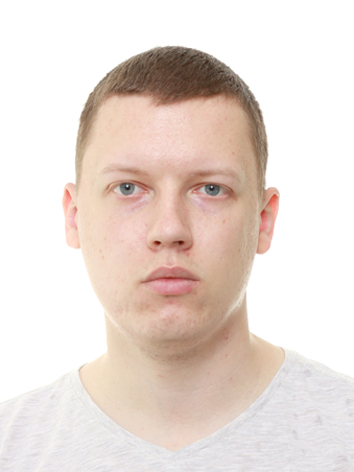
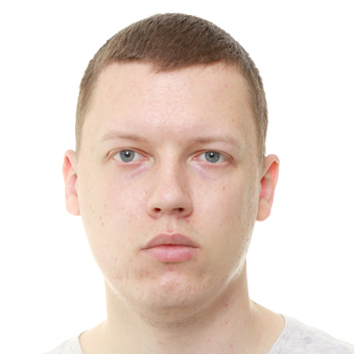
Restructured image files tree (current vs. old); resized and removed background from new images

diff --git a/index.html b/index.html
@@ -229,7 +229,7 @@
         <div class="row  team-member">
             <div class="col s4 face-box">
                 <p>
-                    <img src="img/us/aistis-r.jpg"/>
+                    <img src="img/us/aistis-r-removebg-preview.png"/>
                 </p>
             </div>
             <div class="col s8 member-intro">
@@ -247,7 +247,7 @@
         <div class="row  team-member">
             <div class="col s4 face-box">
                 <p>
-                    <img src="img/us/tadas-s.jpeg"/>
+                    <img src="img/us/tadas-s-removebg-preview.png"/>
                 </p>
             </div>
             <div class="col s8 member-intro">
@@ -267,7 +267,7 @@
         <div class="row  team-member">
             <div class="col s4 face-box">
                 <p>
-                    <img src="img/us/rokas-g.jpeg"/>
+                    <img src="img/us/rokas-g-removebg-preview.png"/>
                 </p>
             </div>
             <div class="col s8 member-intro">
@@ -282,7 +282,7 @@
         <div class="row  team-member">
             <div class="col s4 face-box">
                 <p>
-                    <img src="img/us/lukas-b.jpg"/>
+                    <img src="img/us/lukas-b-removebg-preview.png"/>
                 </p>
             </div>
             <div class="col s8 member-intro">
@@ -297,7 +297,7 @@
         <div class="row  team-member">
             <div class="col s4 face-box">
                 <p>
-                    <img src="img/us/arnas-r.jpg"/>
+                    <img src="img/us/arnas-r-removebg-preview.png"/>
                 </p>
             </div>
             <div class="col s8 member-intro">
@@ -311,7 +311,7 @@
         <div class="row  team-member">
             <div class="col s4 face-box">
                 <p>
-                    <img src="img/us/ausra-s.jpg"/>
+                    <img src="img/us/ausra-s-removebg-preview.png"/>
                 </p>
             </div>
             <div class="col s8 member-intro">
@@ -326,7 +326,7 @@
         <div class="row  team-member">
             <div class="col s4 face-box">
                 <p>
-                    <img src="img/us/gustas-m.jpg"/>
+                    <img src="img/us/gustas-m-removebg-preview.png"/>
                 </p>
             </div>
             <div class="col s8 member-intro">
@@ -337,7 +337,7 @@
         <div class="row  team-member">
             <div class="col s4 face-box">
                 <p>
-                    <img src="img/us/valentinas.jpg"/>
+                    <img src="img/us/valentinas-removebg-preview.png"/>
                 </p>
             </div>
             <div class="col s8 member-intro">
@@ -348,7 +348,7 @@
         <div class="row  team-member">
             <div class="col s4 face-box">
                 <p>
-                    <img src="img/us/jokubas-j.jpg"/>
+                    <img src="img/us/jokubas-j-removebg-preview.png"/>
                 </p>
             </div>
             <div class="col s8 member-intro">
@@ -359,7 +359,7 @@
         <div class="row  team-member">
             <div class="col s4 face-box">
                 <p>
-                    <img src="img/us/jurgis-p.png"/>
+                    <img src="img/us/jurgis-p-removebg-preview.png"/>
                 </p>
             </div>
             <div class="col s8 member-intro">
@@ -370,7 +370,7 @@
         <div class="row  team-member">
             <div class="col s4 face-box">
                 <p>
-                    <img src="img/us/henrikas-s.jpg"/>
+                    <img src="img/us/henrikas-s-removebg-preview.png"/>
                 </p>
             </div>
             <div class="col s8 member-intro">
@@ -381,11 +381,11 @@
         <div class="row  team-member">
             <div class="col s4 face-box">
                 <p>
-                    <img src="img/us/gustas-g.jpg"/>
+                    <img src="img/us/gustas-g-removebg-preview.png"/>
                 </p>
             </div>
             <div class="col s8 member-intro">
-                <h3> Gustas Gedminas, tyrėjas </h3>
+                <h3> Gustas Gediminas, tyrėjas </h3>
                 <p> Gustas yra jaunesnysis programinės įrangos inžinierius, šiuo metu studijuojantis informatiką Vilniaus universitete. Jis yra įvairių fizikos ir matematikos olimpiadų laimėtojas bei yra Lietuvos nacionalinio matematikos egzamino šimtukininkas. Gustas dega nuolatiniu noru tobulėti bei domisi pačiomis įvairiausiomis temomis: nuo fizikos modeliavimo ir neuroninių tinklų iki kompiuterinės grafikos. </p>
             </div>
         </div>
